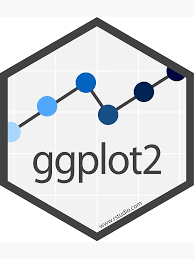
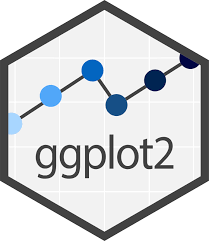
Add resume

Changed region(s): [[0.0, 0.0, 1.0, 1.0], [0.5258, 0.5519, 0.5567, 0.5809]]

diff --git a/resume.html b/resume.html
@@ -47,6 +47,7 @@
                 <p class="eyebrow">FUNCTIONAL RESUME</p>
                 <div class="section-header">
                     <h2>Data from creation to final analysis.<br>Analysis from KPI definition to advanced causal inference modeling.</h2>
+                    <a class="btn primary-btn resume-download" href="https://docs.google.com/document/d/1ZHueyxBJP_p2cmlAzpDR6u7wtbDTcjh00EMIvujQMCU/edit?usp=sharing" target="_blank" rel="noopener noreferrer">Download Resume</a>
                 </div>
                 <div class="resume-grid-modern">
                     <article class="resume-card-modern">

diff --git a/techstack.html b/techstack.html
@@ -111,7 +111,7 @@
                             <img src="static/images/tableau_2.png" alt="Tableau logo">
                             <img src="static/images/power_bi_2.png" alt="Power BI logo">
                             <img src="static/images/plotly_2.png" alt="Plotly logo">
-                            <img src="static/images/ggplot2_2.png" alt="ggplot2 logo">
+                            <img src="static/images/ggplot2.png" alt="ggplot2 logo">
                         </div>
                     </article>
                     <article class="tech-card">

diff --git a/css/custom.css b/css/custom.css
@@ -220,6 +220,14 @@ img {
     color: var(--text-primary);
 }
 
+.ghost-btn:hover {
+    transform: translateY(-2px);
+}
+
+.resume-download {
+    margin-top: 1.25rem;
+}
+
 .hero-grid {
     display: grid;
     gap: 3rem;
